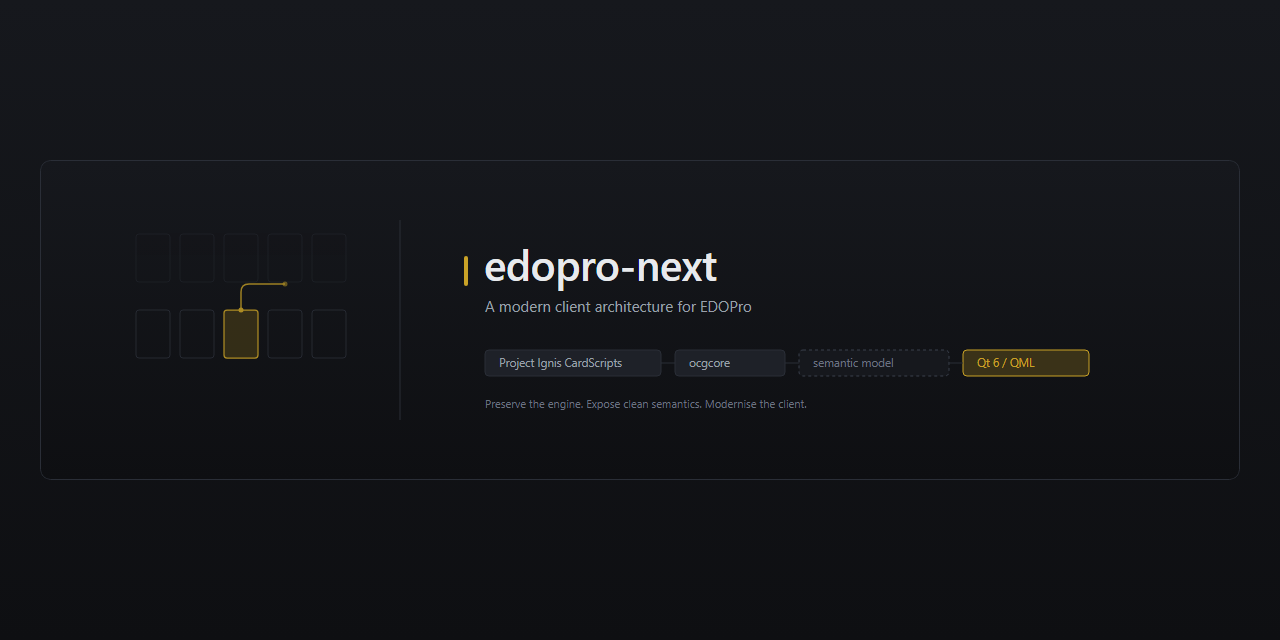
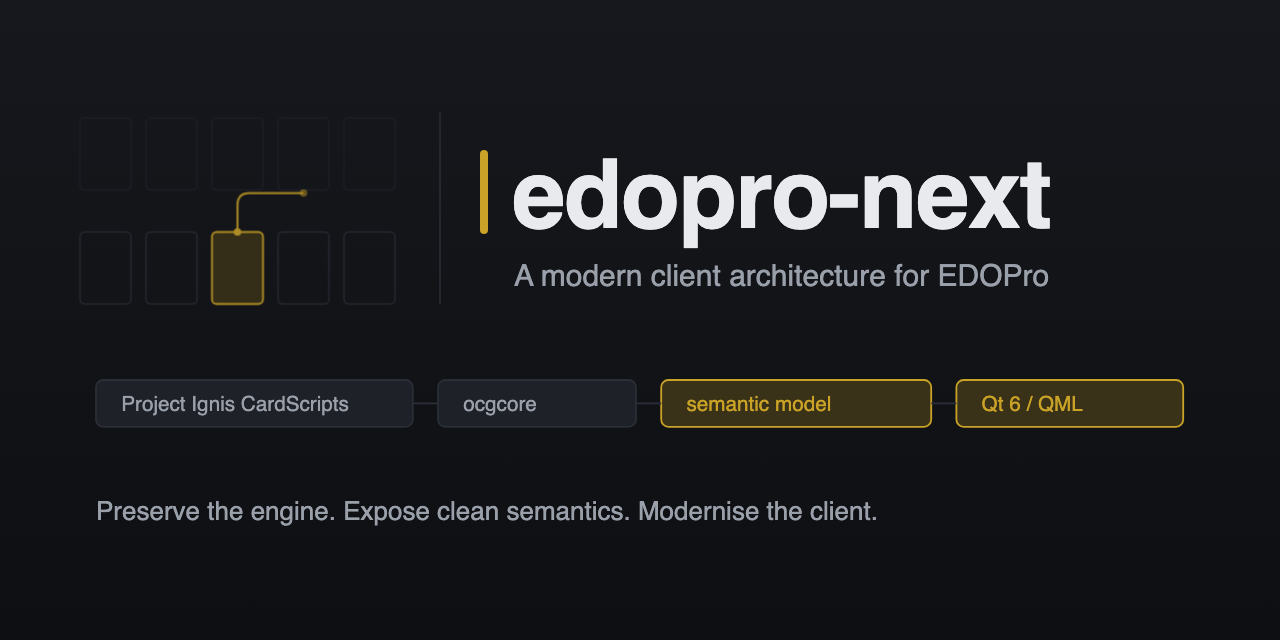
docs/assets: draw the semantic model as built, and rebuild the social preview for legibility
hero.svg drew the semantic model chip dashed and dimmed, which reads as not
built although M2 is done; it now uses the same accented style as the Qt 6 /
QML chip. social-preview.svg centred the whole 1200x320 banner on a 1280x640
canvas, so its text was small in a link card; it is now a standalone re-layout
of the same elements at 1.5x-1.8x and social-preview.png is re-rendered from
it. tests/test_presentation_assets.py fails if the two SVGs' chips drift apart
or the banner draws the semantic model as unbuilt while the roadmap says done.

diff --git a/tests/test_presentation_assets.py b/tests/test_presentation_assets.py
@@ -1,0 +1,111 @@
+"""Tests that the README's images do not say something the roadmap contradicts.
+
+Two claims are pinned, each by a mechanism that can fail:
+
+  * `docs/assets/hero.svg` and `docs/assets/social-preview.svg` draw the same
+    four layer-stack chips in the same colours. The social preview is a
+    re-layout of the banner, so a change to one that the other does not follow
+    is a defect (the first version of this repository's social preview
+    embedded the banner by reference; the current one is standalone, so it can
+    drift, and this is what stops it).
+  * While the roadmap marks M2 (the semantic client model) done, the banner
+    does not draw its chip dashed or dimmed, which reads as "not built".
+
+Run:
+    python -m unittest discover -s tests -v
+"""
+from __future__ import annotations
+
+import pathlib
+import sys
+import unittest
+import xml.etree.ElementTree as ET
+
+REPO = pathlib.Path(__file__).resolve().parent.parent
+sys.path.insert(0, str(REPO))
+
+import tools.generate_readme_status as grs  # noqa: E402
+
+ASSETS = REPO / "docs" / "assets"
+HERO = ASSETS / "hero.svg"
+SOCIAL = ASSETS / "social-preview.svg"
+SVG = "{http://www.w3.org/2000/svg}"
+CHIPS = ("Project Ignis CardScripts", "ocgcore", "semantic model", "Qt 6 / QML")
+DIMMED_TEXT = "#6B7280"  # Theme.textTertiary: the colour hero.svg used for "not built"
+
+
+def chip_styles(svg_text: str) -> dict[str, dict[str, str]]:
+    """label -> the chip's own paint: fill, stroke, dash, and its text fill."""
+    root = ET.fromstring(svg_text)
+    styles: dict[str, dict[str, str]] = {}
+    for g in root.iter(f"{SVG}g"):
+        rect, text = g.find(f"{SVG}rect"), g.find(f"{SVG}text")
+        if rect is None or text is None:
+            continue
+        label = "".join(text.itertext()).strip()
+        if label in CHIPS:
+            styles[label] = {
+                "fill": rect.get("fill", ""),
+                "stroke": rect.get("stroke", ""),
+                "dash": rect.get("stroke-dasharray", ""),
+                "text": text.get("fill", ""),
+            }
+    return styles
+
+
+def semantic_model_done(roadmap_text: str) -> bool:
+    return any(ms.title == "Semantic client model" and ms.status == grs.DONE
+               for ms in grs.parse_roadmap(roadmap_text))
+
+
+HERO_TEXT = HERO.read_text(encoding="utf-8")
+SOCIAL_TEXT = SOCIAL.read_text(encoding="utf-8")
+ROADMAP_TEXT = grs.ROADMAP.read_text(encoding="utf-8")
+
+
+class ChipsStayInStep(unittest.TestCase):
+    def test_both_svgs_draw_all_four_chips(self):
+        for name, text in (("hero.svg", HERO_TEXT), ("social-preview.svg", SOCIAL_TEXT)):
+            self.assertEqual(sorted(chip_styles(text)), sorted(CHIPS), name)
+
+    def test_social_preview_chips_match_the_banner(self):
+        self.assertEqual(chip_styles(SOCIAL_TEXT), chip_styles(HERO_TEXT))
+
+    def test_the_comparison_can_fail(self):
+        drifted = SOCIAL_TEXT.replace('fill="#3A3218" stroke="#C9A227"/>\n      <text x="14" y="17" fill="#C9A227">semantic model',
+                                      'fill="#16181D" stroke="#3A404C" stroke-dasharray="3 3"/>\n      <text x="14" y="17" fill="#6B7280">semantic model', 1)
+        self.assertNotEqual(drifted, SOCIAL_TEXT, "mutation anchor did not match")
+        self.assertNotEqual(chip_styles(drifted), chip_styles(HERO_TEXT))
+
+
+class BannerDoesNotDenyWhatExists(unittest.TestCase):
+    def test_semantic_model_chip_is_not_drawn_as_unbuilt_while_m2_is_done(self):
+        if not semantic_model_done(ROADMAP_TEXT):
+            self.skipTest("roadmap no longer marks the semantic client model done")
+        for name, text in (("hero.svg", HERO_TEXT), ("social-preview.svg", SOCIAL_TEXT)):
+            chip = chip_styles(text)["semantic model"]
+            self.assertEqual(chip["dash"], "", f"{name}: dashed outline reads as 'not built'")
+            self.assertNotEqual(chip["text"].upper(), DIMMED_TEXT, f"{name}: dimmed text reads as 'not built'")
+
+    def test_the_check_can_fail(self):
+        original = ('<rect x="0" y="0" width="150" height="26" rx="4" fill="#16181D" stroke="#3A404C" stroke-dasharray="3 3"/>\n'
+                    '          <text x="14" y="17" fill="#6B7280">semantic model</text>')
+        old_hero = HERO_TEXT.replace(
+            '<rect x="0" y="0" width="150" height="26" rx="4" fill="#3A3218" stroke="#C9A227"/>\n'
+            '          <text x="14" y="17" fill="#C9A227">semantic model</text>', original, 1)
+        self.assertNotEqual(old_hero, HERO_TEXT, "mutation anchor did not match")
+        chip = chip_styles(old_hero)["semantic model"]
+        self.assertEqual(chip["dash"], "3 3")
+        self.assertEqual(chip["text"].upper(), DIMMED_TEXT)
+
+
+class SocialPreviewSource(unittest.TestCase):
+    def test_canvas_is_1280_by_640_and_stands_alone(self):
+        root = ET.fromstring(SOCIAL_TEXT)
+        self.assertEqual(root.get("viewBox"), "0 0 1280 640")
+        self.assertEqual((root.get("width"), root.get("height")), ("1280", "640"))
+        self.assertEqual(list(root.iter(f"{SVG}image")), [], "external <image> would not travel with the file")
+
+
+if __name__ == "__main__":
+    unittest.main()
